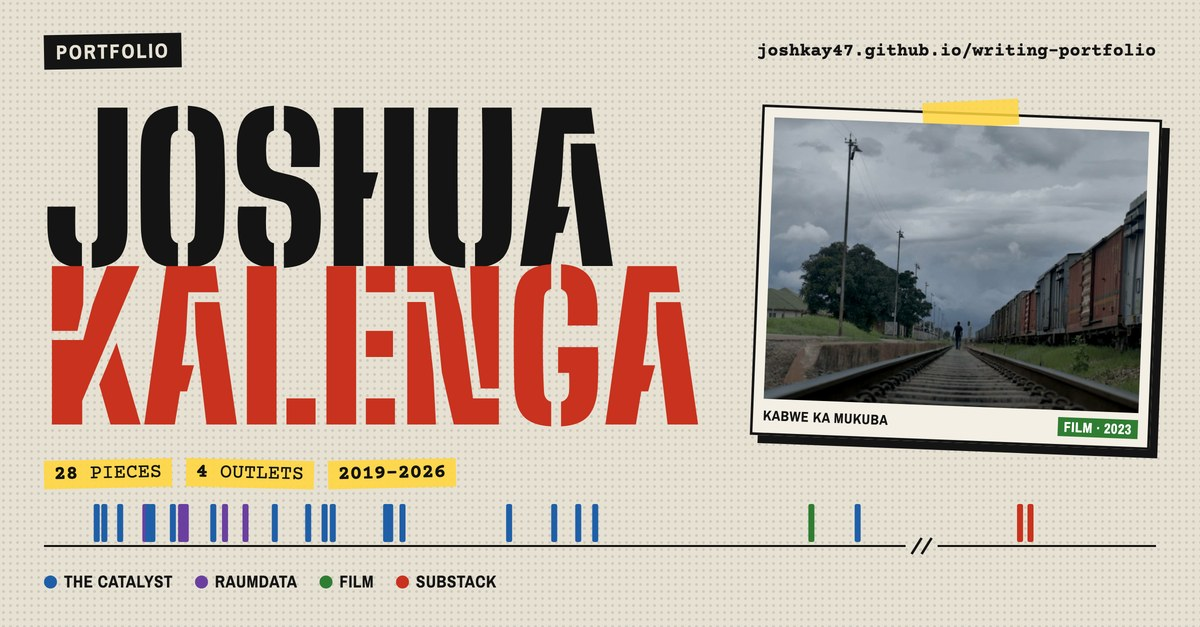
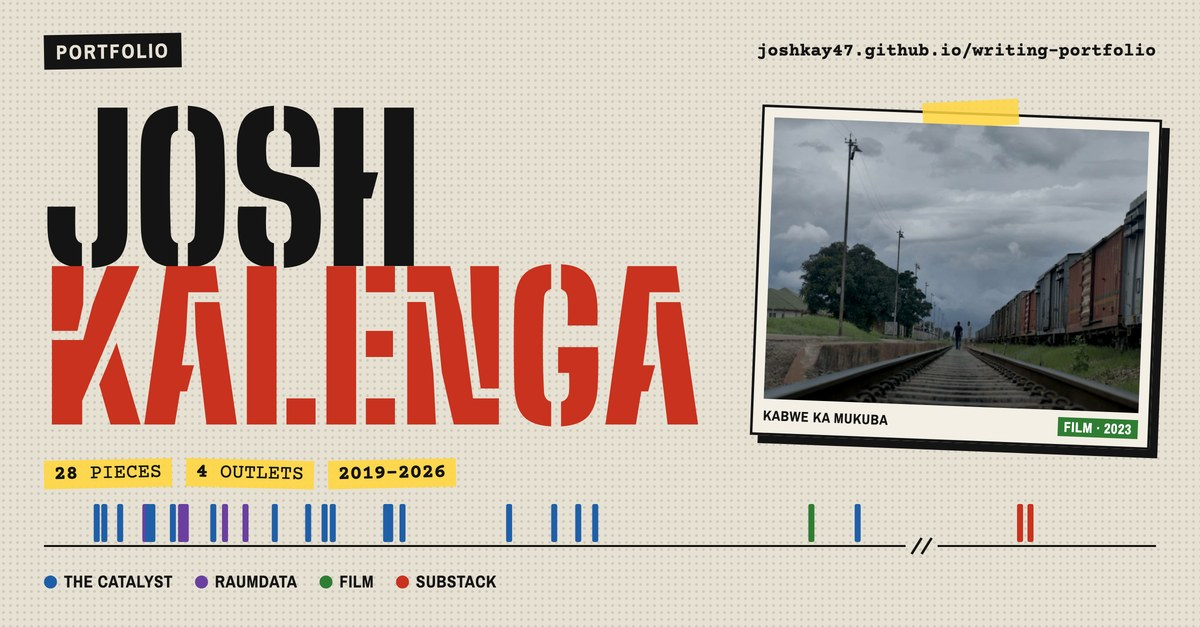
Use the name Josh Kalenga; drop the small wordmark from the header

Changed region(s): [[0.3392, 0.1515, 0.5242, 0.4242]]

diff --git a/src/styles/global.css b/src/styles/global.css
@@ -30,7 +30,7 @@ button{font:inherit;color:inherit}
 .slot b{font-weight:500;color:var(--ink-2);letter-spacing:.04em;text-transform:uppercase;font-size:11px}
 
 /* masthead */
-header.site{display:flex;justify-content:space-between;align-items:baseline;gap:16px;flex-wrap:wrap;padding-block:22px 0}
+header.site{display:flex;justify-content:flex-end;align-items:baseline;gap:16px;flex-wrap:wrap;padding-block:22px 0}
 .wordmark{font:600 15px var(--cond);letter-spacing:.14em;text-transform:uppercase}
 nav.site{display:flex;gap:20px;font:500 14px var(--cond);letter-spacing:.06em;text-transform:uppercase}
 nav.site a{text-decoration:none;color:var(--ink-2)}

diff --git a/README.md b/README.md
@@ -1,4 +1,4 @@
-# Joshua Kalenga — portfolio
+# Josh Kalenga — portfolio
 
 A static site built with [Astro](https://astro.build). The homepage has a hero, selected work, an **Explore** section (map, timeline, themes, methods and publications over every piece) and contact details.
 
